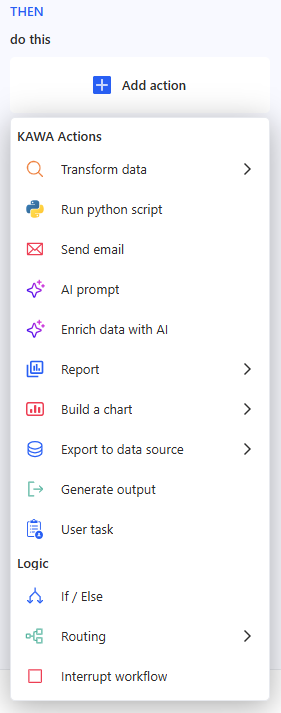
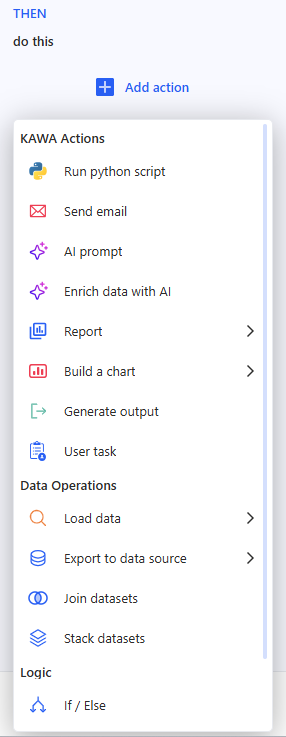
GITBOOK-45: No subject

diff --git a/07_00_workflows/README.md b/07_00_workflows/README.md
@@ -65,9 +65,35 @@ How it fires:
 
 ## 3. Add action
 
-Click **Add action** — the Actions panel opens; available categories:
+### 3. Add action
 
-<div data-with-frame="true"><img src="../.gitbook/assets/workflows_add_action.png" alt=""></div>
+Click **Add action** to open the Actions menu. Actions are grouped into categories:
+
+**KAWA Actions**
+
+* Run python script
+* Send email
+* AI prompt
+* Enrich data with AI
+* Report
+* Build a chart
+* Generate output
+* User task
+
+**Data Operations**
+
+* Load data
+* Export to data source
+* Join datasets
+* Stack datasets
+
+**Logic**
+
+* If / Else
+* Routing
+* Interrupt workflow
+
+<figure><img src="../.gitbook/assets/workflows_add_action.png" alt=""><figcaption></figcaption></figure>
 
 Below is how to set up each step type in practice.
 
@@ -323,7 +349,7 @@ Use **Stack datasets** to combine 2 or more tables produced by previous workflow
   * Click + **Add mapping row** to add a new output column.
   * A row may contain mappings for only some datasets; dataset cells with no mapping can be left empty.
   * Each mapping row must contain at least one selected dataset column. A completely empty mapping row blocks saving/running the task.
-  * When you select a source column, the source column type icon is shown in the Output column name cell.&#x20;
+  * When you select a source column, the source column type icon is shown in the **Output column name** cell.&#x20;
   * Use the trash icon to remove a mapping row.
 * **Behavior** — the same row-based guards as in **Join datasets** appear at the bottom.
 
